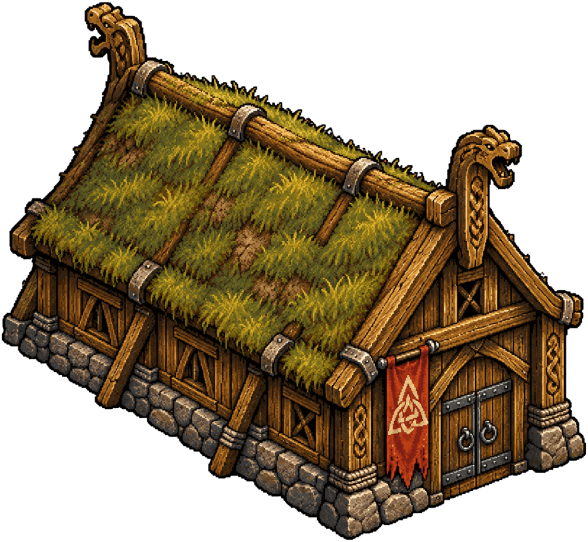
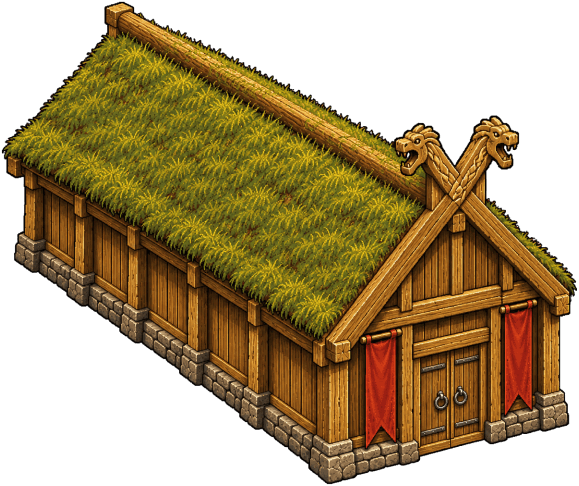
feat(art): ship B26 town hall t1 (new style anchor) and side-profile monster feet; kit_minotaur without the front-on hoof
Claude-Session: https://claude.ai/code/session_01M68g8NmB4aDf4xUYCS1Xop

diff --git a/docs/art-requests.md b/docs/art-requests.md
@@ -62,6 +62,6 @@ type (pose standard): chop, double, sweep, upward, thrust, smash, stomp, bolt or
 | 550   | Compact-rig monsters, earliest first: draugr and troll, whole and parts                                                                                                                                                                                                                                        | `g11_*`, `kit_draugr`, `kit_troll`                                                                   | G11 Ready                       |
 | 560   | Hero kit from the approved G7 look, first batch (hero-kit.md section 5)                                                                                                                                                                                                                                        | `kit_base`, `kit_heads_a\|b`, `kit_cloaks`, ... (11 sheets)                                          | G12 Ready                       |
 | 570   | Rig-ready hero body for the skeleton rig (Stefan 2026-10-17): sleeveless torso, upper arm, forearm, thigh, shin                                                                                                                                                                                                | `kit_rig_test`, `kit_rig_hands` (`kit_rig_heavy\|light\|robe` held)                                  | G13 Ready (skeleton test)       |
-| 580   | Town hall t1 redo under rule 14 (Stefan 2026-10-17: "AI slop"), new style anchor                                                                                                                                                                                                                               | `bld_townhall_t1`                                                                                    | B26 Ready                       |
+| 580   | Town hall t1 redo under rule 14 (Stefan 2026-10-17: "AI slop"), new style anchor                                                                                                                                                                                                                               | `bld_townhall_t1`                                                                                    | B26 Done (shipped, anchor)      |
 | 590   | Smithy t1 + t2 and Greek temple t2 redos under rule 14                                                                                                                                                                                                                                                         | `bld_smithy_t1\|t2`, `bld_temple_greek_t2`                                                           | B27 Ready                       |
 | 600   | Hero back capes (Stefan rated G12 cloaks 2: "only work on heroes who don't raise their arms")                                                                                                                                                                                                                  | `kit_capes`                                                                                          | G14 Ready                       |

diff --git a/art-tasks/NEXT.md b/art-tasks/NEXT.md
@@ -9,7 +9,7 @@ log; never a **Draft** (Art is still waiting on Stefan). Art sets a batch to Don
 | Batch | Track     | File     | What                                                                             | Images | Status |
 | ----- | --------- | -------- | -------------------------------------------------------------------------------- | ------ | ------ |
 | B13   | buildings | `B13.md` | Map markers: build plot and bounty flag (M2)                                     | 2      | Done   |
-| B26   | buildings | `B26.md` | Redo town hall t1 under rule 14 (becomes the style anchor)                       | 1      | Ready  |
+| B26   | buildings | `B26.md` | Redo town hall t1 under rule 14 (becomes the style anchor)                       | 1      | Done   |
 | B19   | buildings | `B19.md` | Redo town hall t2: same longhouse grown, nothing odd on the back                 | 1      | Ready  |
 | B20   | buildings | `B20.md` | Redo Greek and Egyptian temples t1: real temples with an inside                  | 2      | Done   |
 | B25   | buildings | `B25.md` | Redo Greek temple t1 at the game camera (no straight-on front)                   | 1      | Ready  |

diff --git a/art-tasks/STYLE.md b/art-tasks/STYLE.md
@@ -13,7 +13,7 @@ only references. Copy their palette, thin dark-brown outline, top-left light and
 | Picture (`public/assets/...` unless noted)  | Copy from it                                           |
 | ------------------------------------------- | ------------------------------------------------------ |
 | `art-tasks/ref/hero-anchor-grim.png`        | **every hero**: proportions, face, materials, detail   |
-| `buildings/bld_townhall_t1.png` (5)         | the style itself: timber, turf, carving, banners       |
+| `buildings/bld_townhall_t1.png` (5)         | the style itself, built for real (rule 14, 2026-10-17) |
 | `buildings/bld_lair_labyrinth_t1.png` (5)   | grim ruin: stone, braziers, bones, mood                |
 | `units/mon_jackal-man_t1_front.png` (5)     | a figure: anatomy, grip on the weapon, trim            |
 | `buildings/bld_tower_t1.png` (4)            | believable timber construction, ladder, stone base     |
